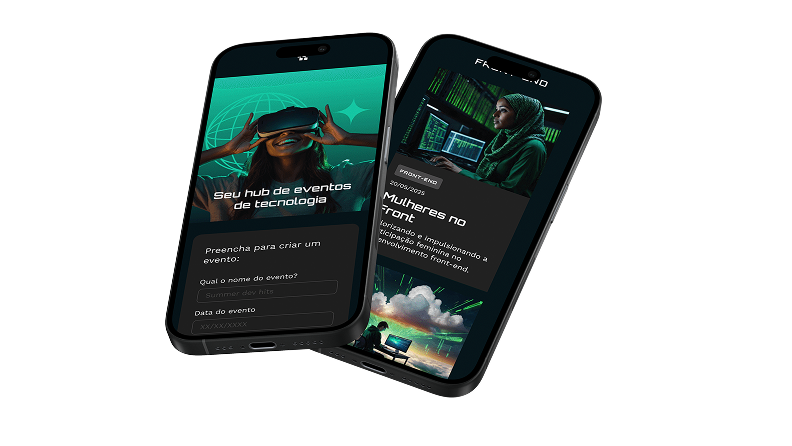
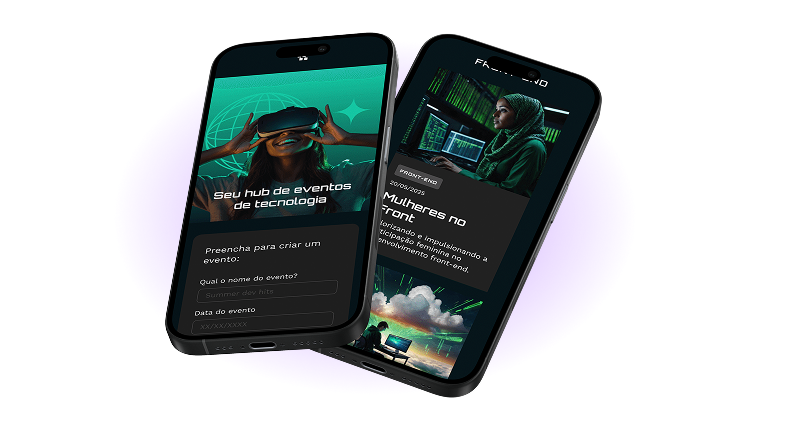
Ajustando a imagem de fundo e adicionando as fontes dos textos do projeto.

Changed region(s): [[0.6364, 0.4081, 0.7576, 0.7287], [0.2121, 0.3498, 0.2424, 0.5538], [0.4848, 0.1749, 0.5152, 0.204]]

diff --git a/index.html b/index.html
@@ -7,6 +7,14 @@
     <meta name="viewport" content="width=device-width, initial-scale=1.0">
 
     <link rel="icon" href="Favicon-tecboard-dark.svg" type="image/svg+xml">
+
+    <link rel="preconnect" href="https://fonts.googleapis.com">
+    <link rel="preconnect" href="https://fonts.gstatic.com" crossorigin>
+
+    <link
+        href="https://fonts.googleapis.com/css2?family=Poppins:ital,wght@0,100;0,200;0,300;0,400;0,500;0,600;0,700;0,800;0,900;1,100;1,200;1,300;1,400;1,500;1,600;1,700;1,800;1,900&family=Unbounded:wght@200..900&display=swap"
+        rel="stylesheet">
+
     <link rel="stylesheet" href="styles/dark-theme.css">
 
     <title>Tecboard</title>
@@ -22,7 +30,7 @@
     <main>
         <h1>
             <span>Fique de olho</span> <br>
-             no que importa
+            no que importa
         </h1>
         <p>
             Monitoramento em tempo real com alertas inteligentes para sua aplicação nunca sair do ar sem você saber.
@@ -31,8 +39,9 @@
         <a href="#">Testar versão demo</a>
 
         <img src="img/celulares-desktop.png" alt="Imagem de dois celular sobrepostos, com um fundo roxo">
-        
+
     </main>
 
 </body>
+
 </html>

diff --git a/styles/dark-theme.css b/styles/dark-theme.css
@@ -8,6 +8,18 @@ body {
     color: #FFFFFF;
 }
 
+h1 {
+    font-family: "Unbounded", sans-serif;
+    font-size: 64px;
+    font-weight: bold;
+}
+
+p {
+    font-family: "Poppins", sans-serif;
+    font-size: 24px;
+    font-weight: 400;
+}
+
 h1 span {
     color: #9747FF;
 }
